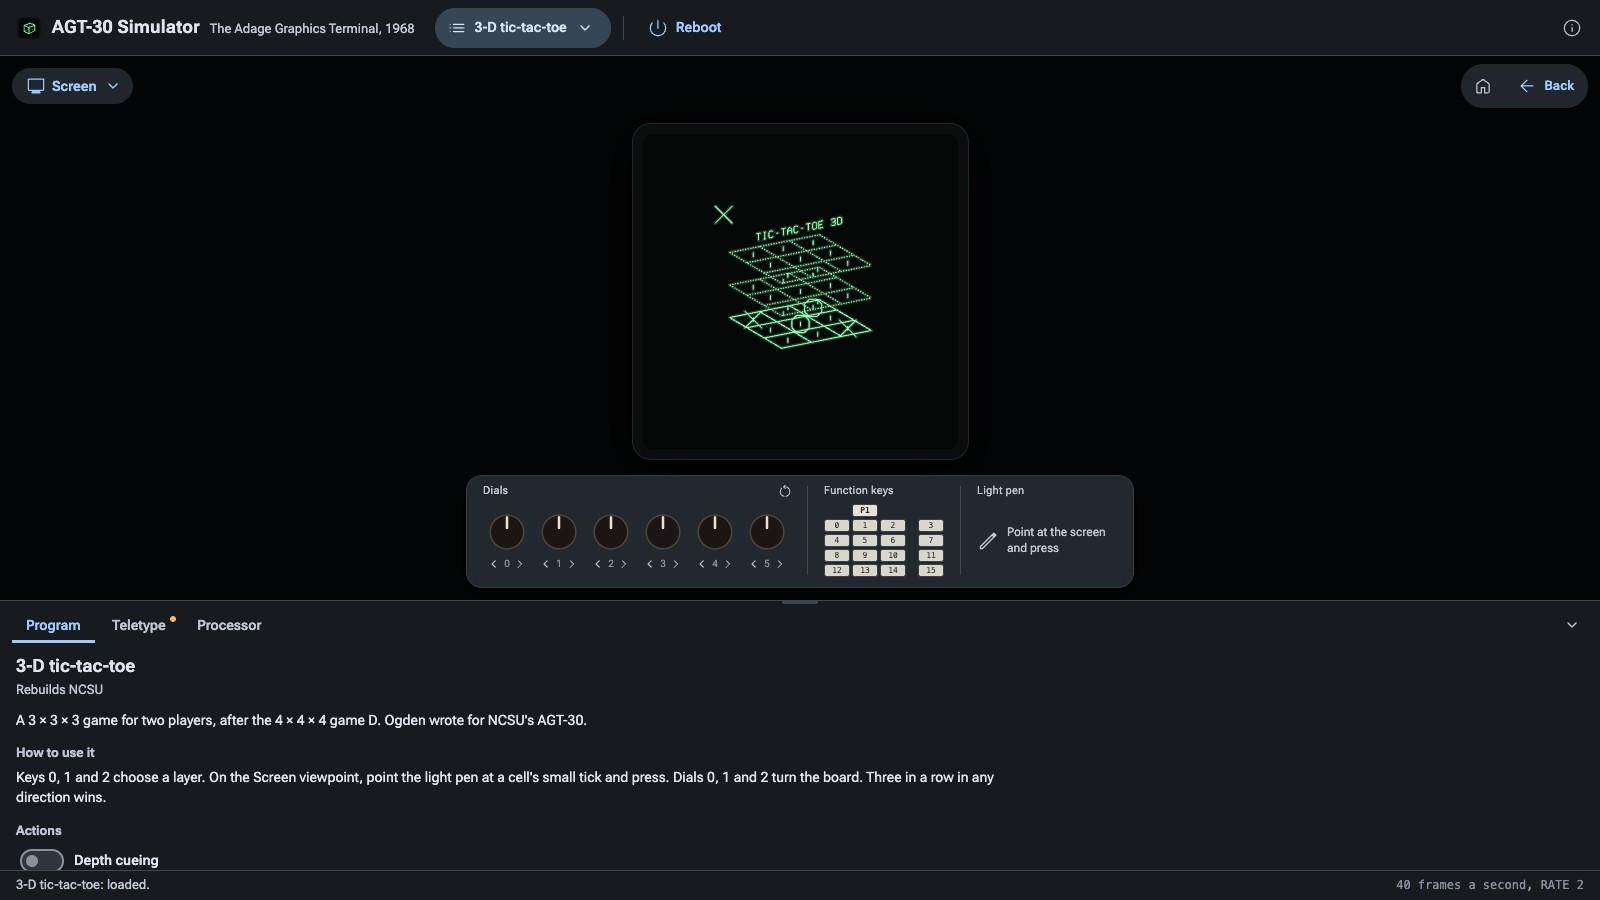
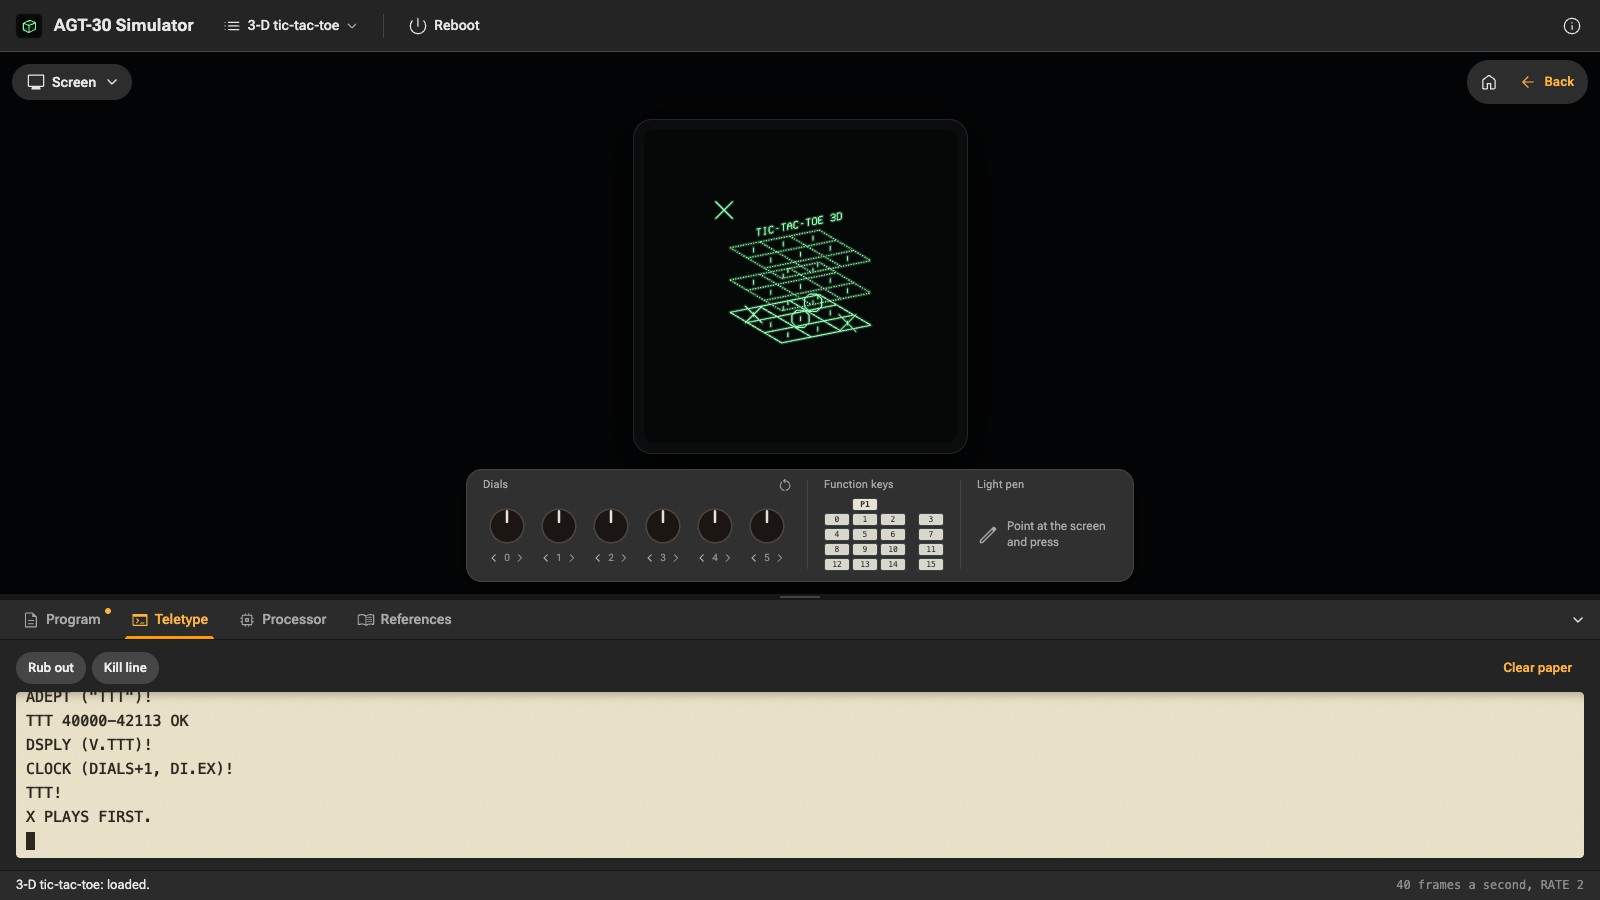
v0.0.3
The version, its stamps, the CHANGELOG's 0.0.3 section and the README's
pictures in the series' theme.

diff --git a/index.html b/index.html
@@ -6,68 +6,68 @@
     <meta name="viewport" content="width=device-width, initial-scale=1">
     <meta name="description" content="The Adage Graphics Terminal AGT-30 (1968) in your browser: a 3D picture turned by a hybrid analog array and drawn on a refreshed vector CRT, with its Teletype and console.">
     <title>AGT-30 Simulator</title>
-    <link rel="icon" href="images/favicon.svg?v=0.0.2" type="image/svg+xml">
-    <link rel="stylesheet" href="css/style.css?v=0.0.2">
+    <link rel="icon" href="images/favicon.svg?v=0.0.3" type="image/svg+xml">
+    <link rel="stylesheet" href="css/style.css?v=0.0.3">
     <!-- Every file name here carries the version (?v=), and so does each module the
          scripts import, through this map. pnpm version writes them, or pnpm stamp
          (tools/stamp.mjs); do not edit them by hand. -->
     <script type="importmap">
     {
       "imports": {
-        "three": "./vendor/three/build/three.module.js?v=0.0.2",
-        "three/addons/controls/OrbitControls.js": "./vendor/three/examples/jsm/controls/OrbitControls.js?v=0.0.2",
-        "three/addons/utils/BufferGeometryUtils.js": "./vendor/three/examples/jsm/utils/BufferGeometryUtils.js?v=0.0.2",
-        "./js/accept/check.js": "./js/accept/check.js?v=0.0.2",
-        "./js/accept/crt.js": "./js/accept/crt.js?v=0.0.2",
-        "./js/accept/model.js": "./js/accept/model.js?v=0.0.2",
-        "./js/accept/scene.js": "./js/accept/scene.js?v=0.0.2",
-        "./js/app/about.js": "./js/app/about.js?v=0.0.2",
-        "./js/app/aboutData.js": "./js/app/aboutData.js?v=0.0.2",
-        "./js/app/dock.js": "./js/app/dock.js?v=0.0.2",
-        "./js/app/link.js": "./js/app/link.js?v=0.0.2",
-        "./js/app/main.js": "./js/app/main.js?v=0.0.2",
-        "./js/app/processor.js": "./js/app/processor.js?v=0.0.2",
-        "./js/app/programCard.js": "./js/app/programCard.js?v=0.0.2",
-        "./js/app/references.js": "./js/app/references.js?v=0.0.2",
-        "./js/app/runner.js": "./js/app/runner.js?v=0.0.2",
-        "./js/app/selftest.js": "./js/app/selftest.js?v=0.0.2",
-        "./js/app/stage.js": "./js/app/stage.js?v=0.0.2",
-        "./js/app/strip.js": "./js/app/strip.js?v=0.0.2",
-        "./js/app/teletype.js": "./js/app/teletype.js?v=0.0.2",
-        "./js/l10n/en.js": "./js/l10n/en.js?v=0.0.2",
-        "./js/l10n/l10n.js": "./js/l10n/l10n.js?v=0.0.2",
-        "./js/scene/terminal3d.js": "./js/scene/terminal3d.js?v=0.0.2",
-        "./js/scene/viewer.js": "./js/scene/viewer.js?v=0.0.2",
-        "./js/sim/adept.js": "./js/sim/adept.js?v=0.0.2",
-        "./js/sim/agt.js": "./js/sim/agt.js?v=0.0.2",
-        "./js/sim/amos.js": "./js/sim/amos.js?v=0.0.2",
-        "./js/sim/amoscode.js": "./js/sim/amoscode.js?v=0.0.2",
-        "./js/sim/array.js": "./js/sim/array.js?v=0.0.2",
-        "./js/sim/dpr2.js": "./js/sim/dpr2.js?v=0.0.2",
-        "./js/sim/dsply.js": "./js/sim/dsply.js?v=0.0.2",
-        "./js/sim/figures.js": "./js/sim/figures.js?v=0.0.2",
-        "./js/sim/font.js": "./js/sim/font.js?v=0.0.2",
-        "./js/sim/frameclock.js": "./js/sim/frameclock.js?v=0.0.2",
-        "./js/sim/image.js": "./js/sim/image.js?v=0.0.2",
-        "./js/sim/listing.js": "./js/sim/listing.js?v=0.0.2",
-        "./js/sim/programs.js": "./js/sim/programs.js?v=0.0.2",
-        "./js/sim/teletype.js": "./js/sim/teletype.js?v=0.0.2",
-        "./js/sim/terminal.js": "./js/sim/terminal.js?v=0.0.2",
-        "./js/sim/vecgen.js": "./js/sim/vecgen.js?v=0.0.2",
-        "./js/sim/words.js": "./js/sim/words.js?v=0.0.2",
-        "./js/ui/components.js": "./js/ui/components.js?v=0.0.2",
-        "./js/view/beam.js": "./js/view/beam.js?v=0.0.2",
-        "./js/view/crt.js": "./js/view/crt.js?v=0.0.2",
-        "./js/view/phosphor.js": "./js/view/phosphor.js?v=0.0.2",
-        "./js/view/theme.js": "./js/view/theme.js?v=0.0.2",
-        "./js/view/traces.js": "./js/view/traces.js?v=0.0.2",
-        "./package.json": "./package.json?v=0.0.2",
-        "./params/terminal.json": "./params/terminal.json?v=0.0.2",
-        "./vendor/material-symbols/icons.js": "./vendor/material-symbols/icons.js?v=0.0.2",
-        "./vendor/three/build/three.core.js": "./vendor/three/build/three.core.js?v=0.0.2",
-        "./vendor/three/build/three.module.js": "./vendor/three/build/three.module.js?v=0.0.2",
-        "./vendor/three/examples/jsm/controls/OrbitControls.js": "./vendor/three/examples/jsm/controls/OrbitControls.js?v=0.0.2",
-        "./vendor/three/examples/jsm/utils/BufferGeometryUtils.js": "./vendor/three/examples/jsm/utils/BufferGeometryUtils.js?v=0.0.2"
+        "three": "./vendor/three/build/three.module.js?v=0.0.3",
+        "three/addons/controls/OrbitControls.js": "./vendor/three/examples/jsm/controls/OrbitControls.js?v=0.0.3",
+        "three/addons/utils/BufferGeometryUtils.js": "./vendor/three/examples/jsm/utils/BufferGeometryUtils.js?v=0.0.3",
+        "./js/accept/check.js": "./js/accept/check.js?v=0.0.3",
+        "./js/accept/crt.js": "./js/accept/crt.js?v=0.0.3",
+        "./js/accept/model.js": "./js/accept/model.js?v=0.0.3",
+        "./js/accept/scene.js": "./js/accept/scene.js?v=0.0.3",
+        "./js/app/about.js": "./js/app/about.js?v=0.0.3",
+        "./js/app/aboutData.js": "./js/app/aboutData.js?v=0.0.3",
+        "./js/app/dock.js": "./js/app/dock.js?v=0.0.3",
+        "./js/app/link.js": "./js/app/link.js?v=0.0.3",
+        "./js/app/main.js": "./js/app/main.js?v=0.0.3",
+        "./js/app/processor.js": "./js/app/processor.js?v=0.0.3",
+        "./js/app/programCard.js": "./js/app/programCard.js?v=0.0.3",
+        "./js/app/references.js": "./js/app/references.js?v=0.0.3",
+        "./js/app/runner.js": "./js/app/runner.js?v=0.0.3",
+        "./js/app/selftest.js": "./js/app/selftest.js?v=0.0.3",
+        "./js/app/stage.js": "./js/app/stage.js?v=0.0.3",
+        "./js/app/strip.js": "./js/app/strip.js?v=0.0.3",
+        "./js/app/teletype.js": "./js/app/teletype.js?v=0.0.3",
+        "./js/l10n/en.js": "./js/l10n/en.js?v=0.0.3",
+        "./js/l10n/l10n.js": "./js/l10n/l10n.js?v=0.0.3",
+        "./js/scene/terminal3d.js": "./js/scene/terminal3d.js?v=0.0.3",
+        "./js/scene/viewer.js": "./js/scene/viewer.js?v=0.0.3",
+        "./js/sim/adept.js": "./js/sim/adept.js?v=0.0.3",
+        "./js/sim/agt.js": "./js/sim/agt.js?v=0.0.3",
+        "./js/sim/amos.js": "./js/sim/amos.js?v=0.0.3",
+        "./js/sim/amoscode.js": "./js/sim/amoscode.js?v=0.0.3",
+        "./js/sim/array.js": "./js/sim/array.js?v=0.0.3",
+        "./js/sim/dpr2.js": "./js/sim/dpr2.js?v=0.0.3",
+        "./js/sim/dsply.js": "./js/sim/dsply.js?v=0.0.3",
+        "./js/sim/figures.js": "./js/sim/figures.js?v=0.0.3",
+        "./js/sim/font.js": "./js/sim/font.js?v=0.0.3",
+        "./js/sim/frameclock.js": "./js/sim/frameclock.js?v=0.0.3",
+        "./js/sim/image.js": "./js/sim/image.js?v=0.0.3",
+        "./js/sim/listing.js": "./js/sim/listing.js?v=0.0.3",
+        "./js/sim/programs.js": "./js/sim/programs.js?v=0.0.3",
+        "./js/sim/teletype.js": "./js/sim/teletype.js?v=0.0.3",
+        "./js/sim/terminal.js": "./js/sim/terminal.js?v=0.0.3",
+        "./js/sim/vecgen.js": "./js/sim/vecgen.js?v=0.0.3",
+        "./js/sim/words.js": "./js/sim/words.js?v=0.0.3",
+        "./js/ui/components.js": "./js/ui/components.js?v=0.0.3",
+        "./js/view/beam.js": "./js/view/beam.js?v=0.0.3",
+        "./js/view/crt.js": "./js/view/crt.js?v=0.0.3",
+        "./js/view/phosphor.js": "./js/view/phosphor.js?v=0.0.3",
+        "./js/view/theme.js": "./js/view/theme.js?v=0.0.3",
+        "./js/view/traces.js": "./js/view/traces.js?v=0.0.3",
+        "./package.json": "./package.json?v=0.0.3",
+        "./params/terminal.json": "./params/terminal.json?v=0.0.3",
+        "./vendor/material-symbols/icons.js": "./vendor/material-symbols/icons.js?v=0.0.3",
+        "./vendor/three/build/three.core.js": "./vendor/three/build/three.core.js?v=0.0.3",
+        "./vendor/three/build/three.module.js": "./vendor/three/build/three.module.js?v=0.0.3",
+        "./vendor/three/examples/jsm/controls/OrbitControls.js": "./vendor/three/examples/jsm/controls/OrbitControls.js?v=0.0.3",
+        "./vendor/three/examples/jsm/utils/BufferGeometryUtils.js": "./vendor/three/examples/jsm/utils/BufferGeometryUtils.js?v=0.0.3"
       }
     }
     </script>
@@ -75,7 +75,7 @@
   <body>
     <header id="topbar">
       <div class="brand">
-        <img class="brand-mark" src="images/logo.svg?v=0.0.2" alt="">
+        <img class="brand-mark" src="images/logo.svg?v=0.0.3" alt="">
         <span class="brand-name" data-l10n="app.name">AGT-30 Simulator</span>
       </div>
       <button id="programs" class="btn tool-btn has-icon" type="button" aria-haspopup="menu" aria-expanded="false" data-tip-describes data-l10n-tip="bar.programs.tip"><i data-icon="list"></i><span id="programs-label" data-l10n="bar.programs"></span><i data-icon="keyboard_arrow_down"></i></button>
@@ -156,6 +156,6 @@
     </section>
 
     <footer id="status" role="status" aria-live="polite"><span id="status-text"></span><span id="fps" class="fps"></span></footer>
-    <script type="module" src="js/app/main.js?v=0.0.2"></script>
+    <script type="module" src="js/app/main.js?v=0.0.3"></script>
   </body>
 </html>

diff --git a/css/fonts.css b/css/fonts.css
@@ -6,7 +6,7 @@
   font-style: normal;
   font-display: swap;
   font-weight: 100 1000;
-  src: url(../vendor/roboto-flex/files/roboto-flex-latin-ext-wght-normal.woff2?v=0.0.2) format("woff2-variations");
+  src: url(../vendor/roboto-flex/files/roboto-flex-latin-ext-wght-normal.woff2?v=0.0.3) format("woff2-variations");
   unicode-range: U+0100-02BA, U+02BD-02C5, U+02C7-02CC, U+02CE-02D7, U+02DD-02FF, U+0304, U+0308, U+0329, U+1D00-1DBF, U+1E00-1E9F, U+1EF2-1EFF, U+2020, U+20A0-20AB, U+20AD-20C0, U+2113, U+2C60-2C7F, U+A720-A7FF;
 }
 @font-face {
@@ -14,6 +14,6 @@
   font-style: normal;
   font-display: swap;
   font-weight: 100 1000;
-  src: url(../vendor/roboto-flex/files/roboto-flex-latin-wght-normal.woff2?v=0.0.2) format("woff2-variations");
+  src: url(../vendor/roboto-flex/files/roboto-flex-latin-wght-normal.woff2?v=0.0.3) format("woff2-variations");
   unicode-range: U+0000-00FF, U+0131, U+0152-0153, U+02BB-02BC, U+02C6, U+02DA, U+02DC, U+0304, U+0308, U+0329, U+2000-206F, U+20AC, U+2122, U+2191, U+2193, U+2212, U+2215, U+FEFF, U+FFFD;
 }

diff --git a/css/style.css b/css/style.css
@@ -4,8 +4,8 @@
    status line. The page never scrolls. Every colour, corner and state is a token (css/theme.css,
    U10); the controls are the simulator series' (the TRS-80 simulator's). */
 
-@import url("theme.css?v=0.0.2");
-@import url("fonts.css?v=0.0.2");
+@import url("theme.css?v=0.0.3");
+@import url("fonts.css?v=0.0.3");
 
 :root {
   font-family: var(--font);

diff --git a/CHANGELOG.md b/CHANGELOG.md
@@ -2,17 +2,27 @@
 
 What changed in each release. Versions follow `package.json` and are tagged `vX.Y.Z` ([docs/development.md](docs/development.md), *Branches, versions and releases*). Versions 0.0.x are pre-releases. The decisions cited (D1, U8, R14, …) are in [docs/ui-design.md](docs/ui-design.md), [design/architecture.md](design/architecture.md) and [design/reconstructions.md](design/reconstructions.md).
 
-## Unreleased
+## 0.0.3
 
-- The simulator series' look (U10): the theme of neutral greys round an amber primary, and the series' controls, as in the Altair 8800 and TRS-80 simulators: top-bar tool buttons, tabs with icons, the segmented button (now also the Tube's time), fields, menus, tooltips, dialogs and the status line.
+The simulator series' look, and phones. While the machine waits on M. Howard's answers, this release is about the page: it now looks and works like the series' other simulators (the Altair 8800 and the TRS-80), and it works on a phone.
+
+**The look**
+- The series' theme (U10): neutral greys round an amber primary, and the series' controls: top-bar tool buttons, tabs with icons, the segmented button (now also the Tube's time), fields, menus, tooltips, dialogs and the status line.
 - The dock's handle is a row of its own, lit while dragged; dragging keeps the dock's foot where it is; the dock remembers its tab, height and fold (U1).
-- Phones (P11, U2): the same app, packed down in steps; the console strip scrolls sideways; the notice that the page was made for a desktop is gone.
-- The Tube's traces sit just above the console strip, however tall it is.
 - The top bar keeps only the name, the tools and About: the tagline is gone, and its items share one centre line.
 - The Program tab's choices: the cards in a row are the same height.
-- The Tube on a phone (U2): the overlays pack down to the top and the foot, the traces to a slim box, and the view is framed between them; the strip is left to the other viewpoints. The note and the traces let touches through to the 3D view.
+
+**Phones** (P11, U2)
+- The same app, packed down in steps; the console strip scrolls sideways; the notice that the page was made for a desktop is gone.
+- The Tube on a phone: the overlays pack down to the top and the foot, the traces to a slim box, and the view is framed between them; the strip is left to the other viewpoints. The note and the traces let touches through to the 3D view, at every size.
+- The Teletype's hint on empty paper sits under the date line, as wide as the paper in view.
+
+**Finding your way**
 - A way back (U17): the Programs menu ticks the program loaded and ends with Unload the program; the program card has Unload beside its title. Both reboot the terminal and show the list of programs again.
 - About has References and Close buttons at its foot, as in the series; a new References tab lists the history, Adage's documents, M. Howard's tapes and documents, and the simulator's source and research (U16).
+
+**Fixed**
+- The Tube's traces sit just above the console strip, however tall it is; they had been partly covered.
 
 ## 0.0.2
 
